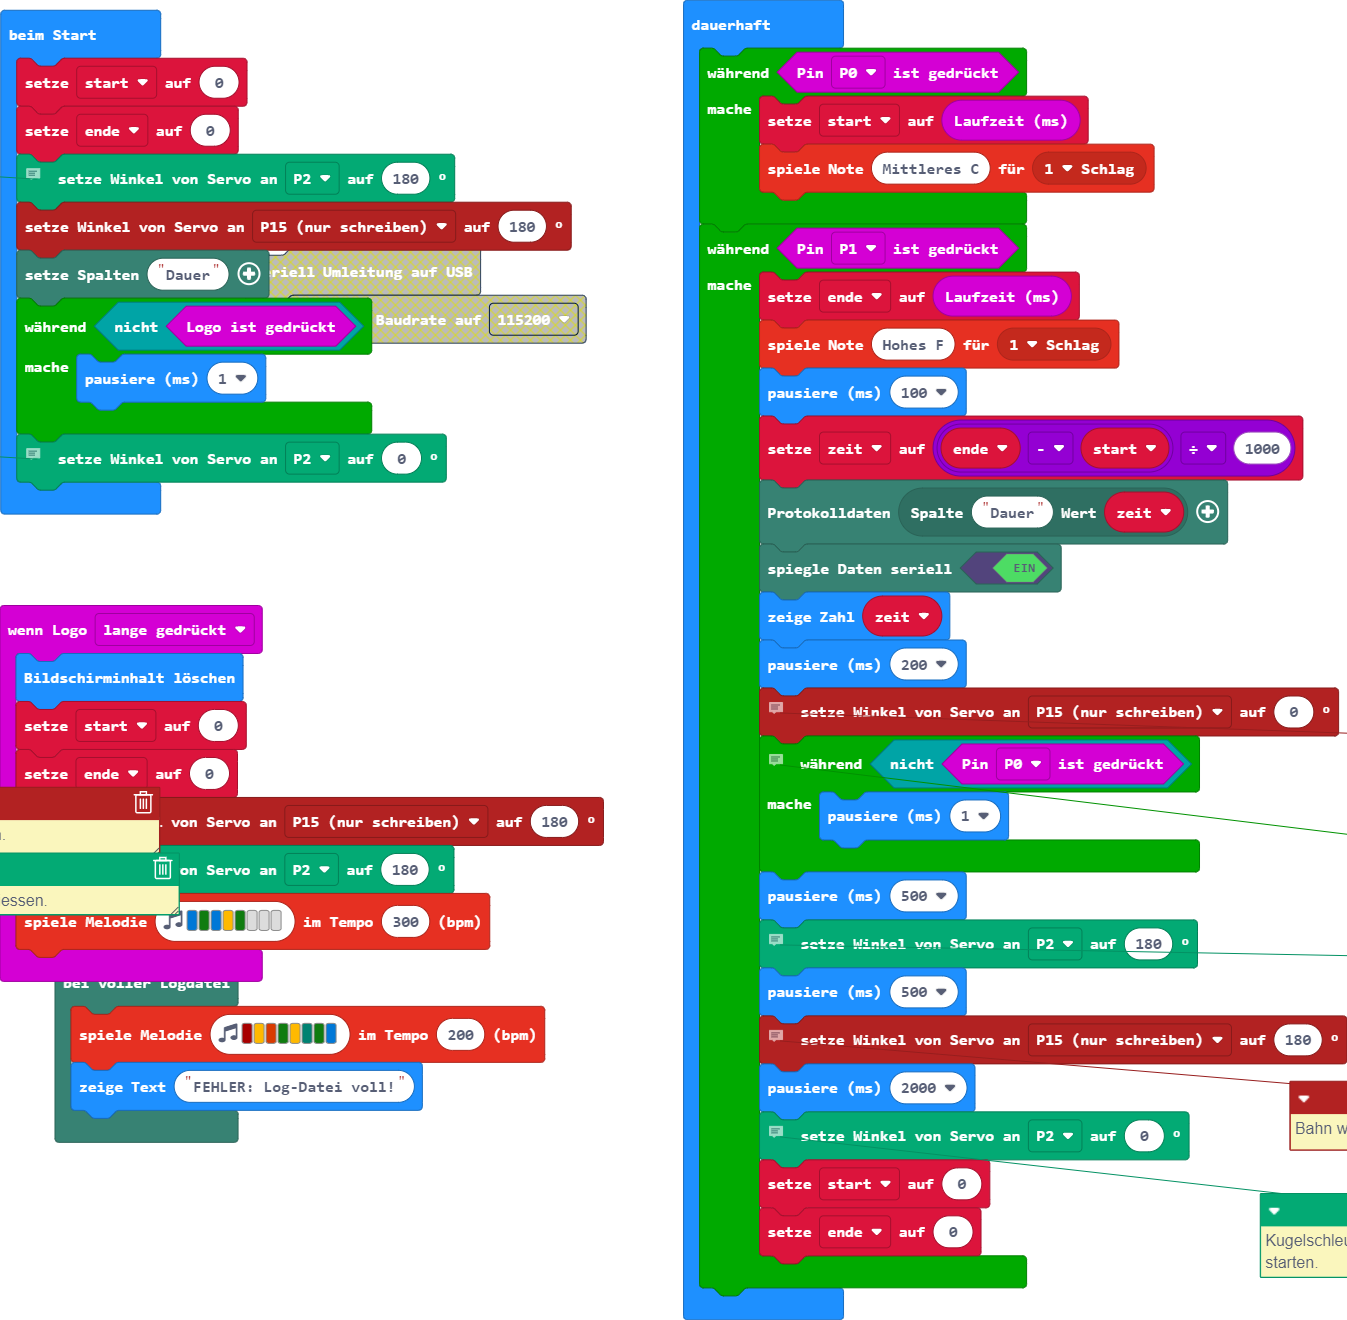
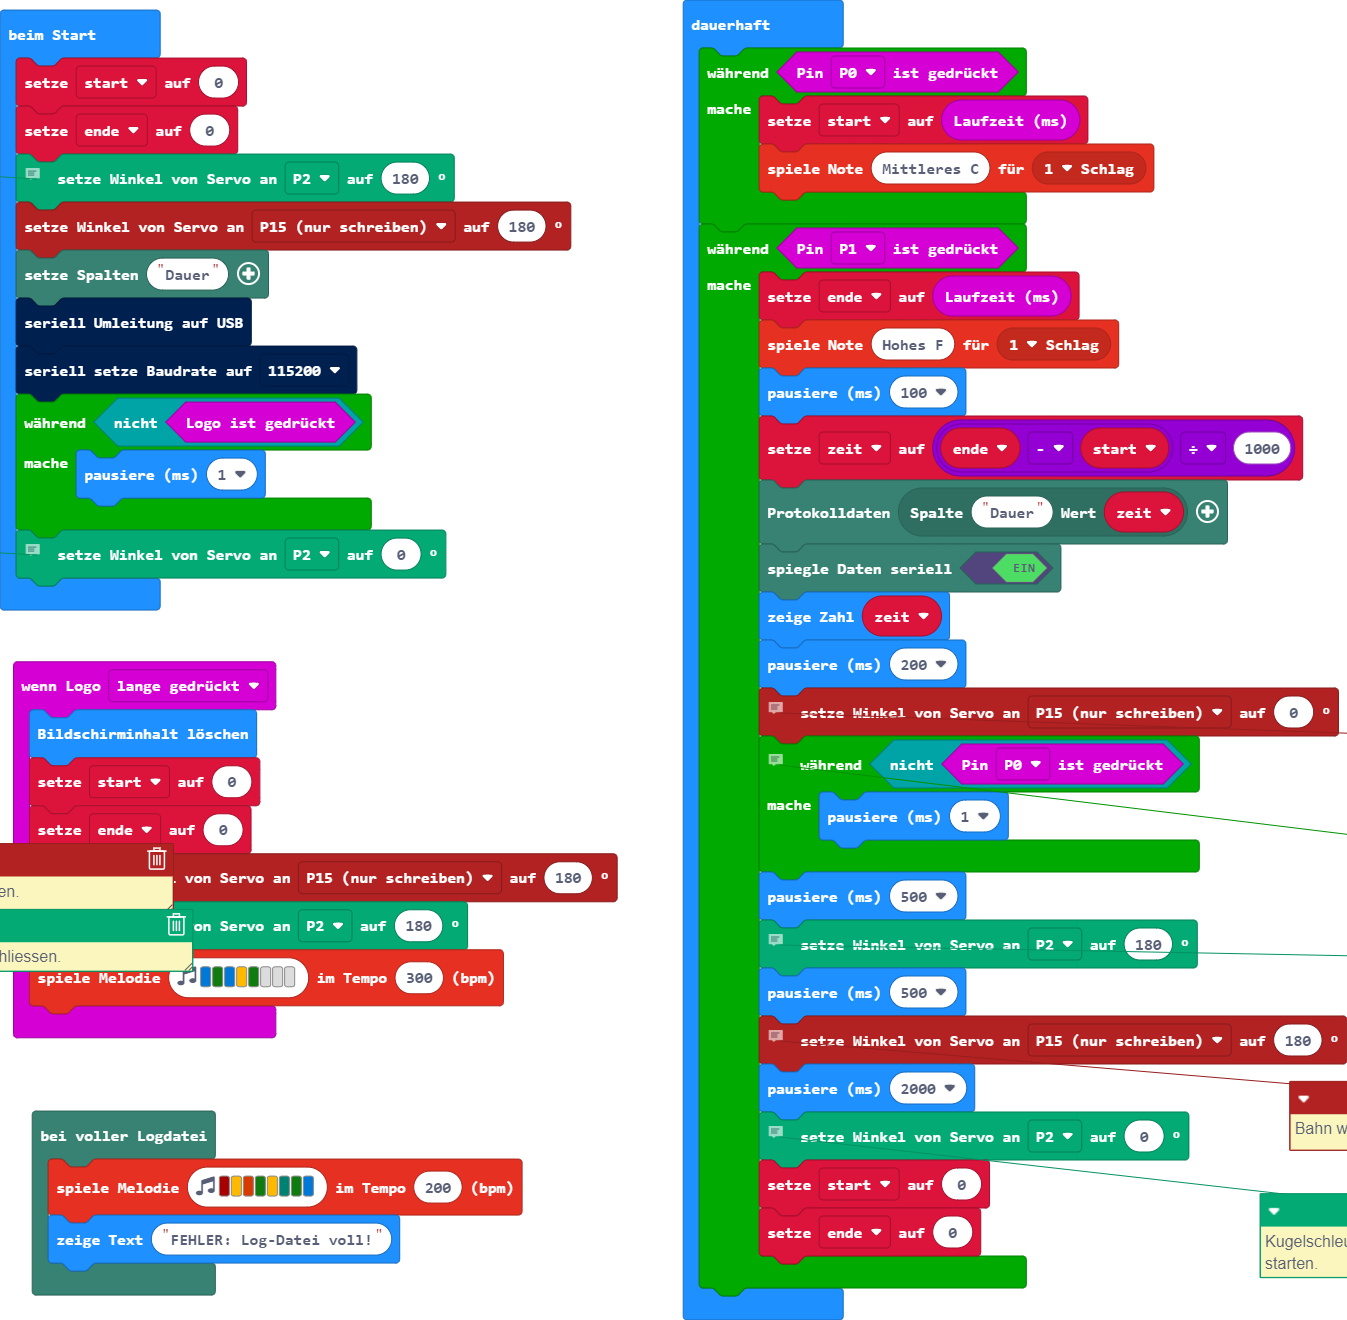
Aktualisiere main.blocks, main.ts

diff --git a/main.ts b/main.ts
@@ -21,6 +21,8 @@ ende = 0
 servos.P2.setAngle(180)
 pins.servoWritePin(AnalogPin.P15, 180)
 datalogger.setColumnTitles("Dauer")
+serial.redirectToUSB()
+serial.setBaudRate(BaudRate.BaudRate115200)
 while (!(input.logoIsPressed())) {
     basic.pause(1)
 }
